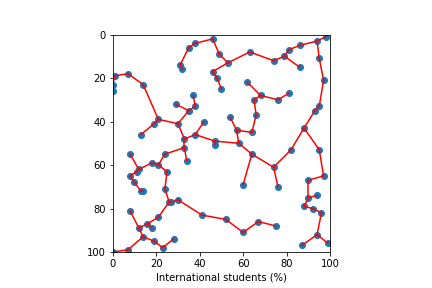
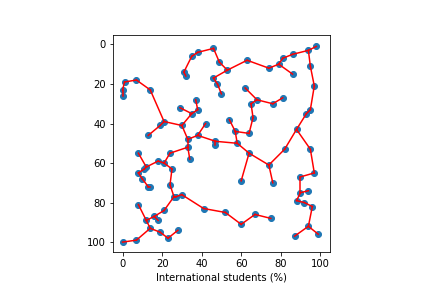
modified mst plots again

diff --git a/SDA_UniRank_Scagnostics.py b/SDA_UniRank_Scagnostics.py
@@ -118,7 +118,7 @@ def MST_plot(P,plot_path,indep_var):
     ax = plt.gca()
     ax.set_aspect('equal')
     ax.set_xlim([0, 100])
-    ax.set_ylim([0, 100])
+    ax.set_ylim([100, 0])
     
     # filepath for plot image
     figure_path = plot_path + indep_var.replace("/", "-") + '.png'
